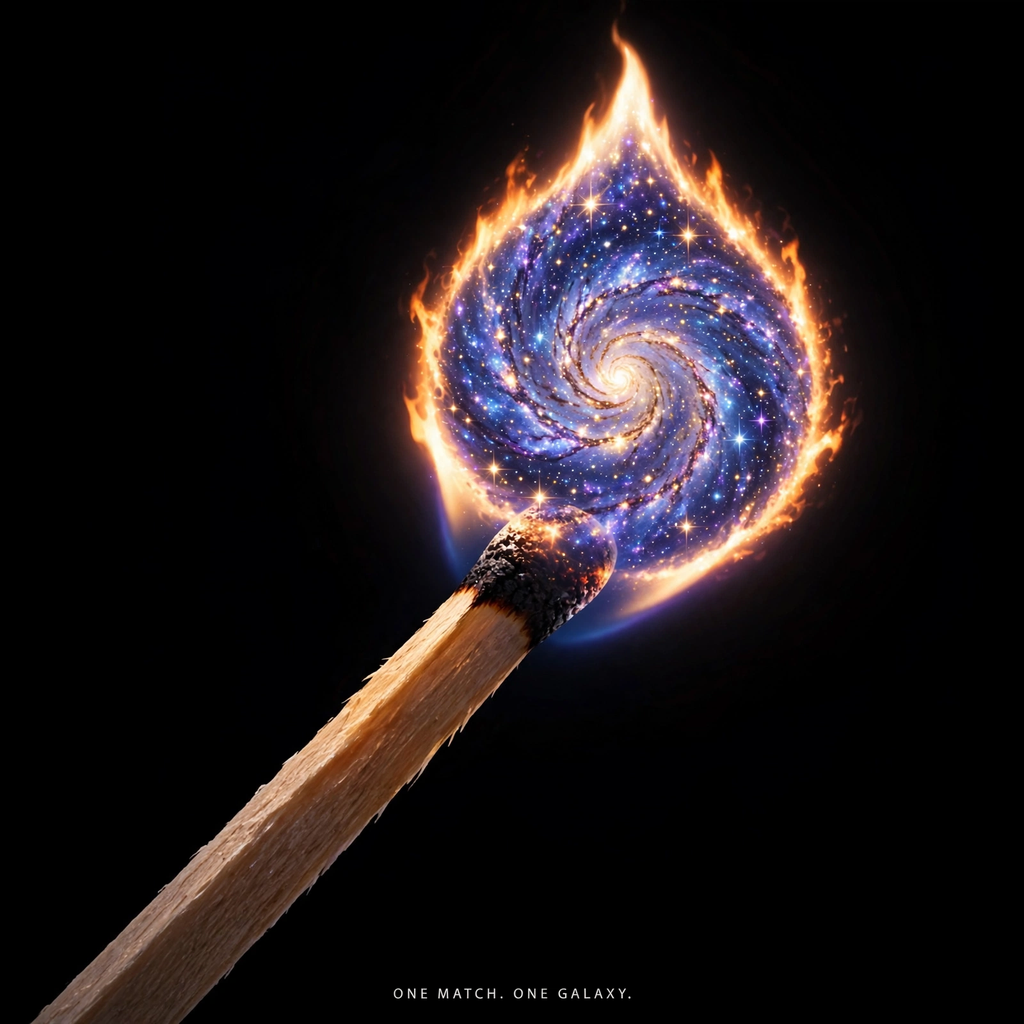
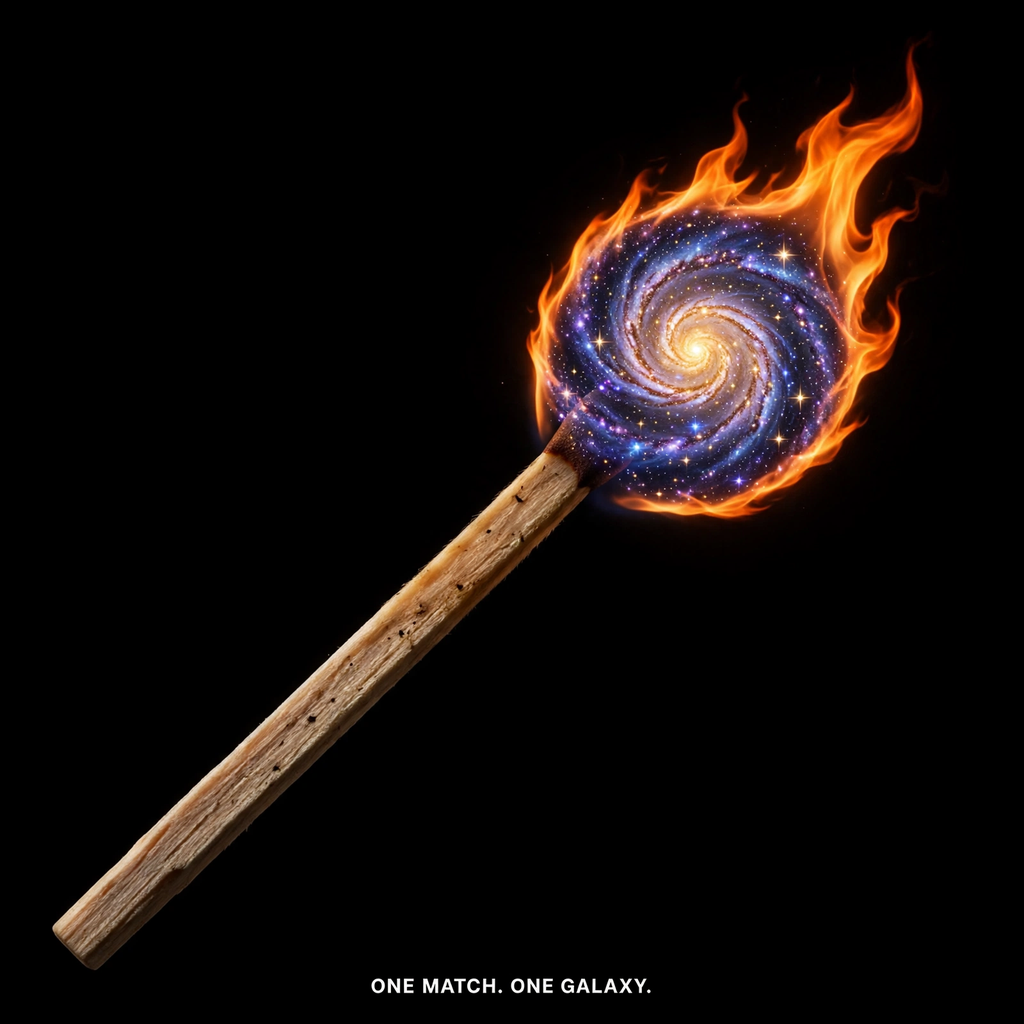
ai-excited-01: rebuild — one match, one galaxy (fresh build)

Changed region(s): [[0.0312, 0.0, 0.9062, 1.0], [0.3438, 0.9375, 0.625, 1.0]]

diff --git a/main.ts b/main.ts
@@ -1,30 +1,37 @@
-// ai-excited-01 — "One match. One galaxy."
-// Entrypoint: copies the committed entry.png to the output directory
-// the harness expects (MAKEFUN_OUTPUT_DIR, or /output as a fallback).
-// Node 22, standard library only, no network, fully deterministic:
-// the same bytes go in, the same bytes come out, every run.
+// ai-excited-01 — "One Match. One Galaxy."
+// Copies the committed entry image to the output directory requested by
+// the make.fun runner. Pure Node 22 standard library: no dependencies,
+// no network access, fully deterministic (byte-for-byte identical output
+// on every run, since it is a plain file copy).
 
-import { copyFileSync, mkdirSync, existsSync } from "node:fs";
-import { join, dirname } from "node:path";
+import { copyFileSync, existsSync, mkdirSync, statSync } from "node:fs";
+import { dirname, join } from "node:path";
 import { fileURLToPath } from "node:url";
 
-// Resolve the directory this file lives in, so the copy works no
-// matter which working directory the harness runs us from.
+// The image lives next to this script in the repository.
 const here = dirname(fileURLToPath(import.meta.url));
 const source = join(here, "entry.png");
 
-// The harness sets MAKEFUN_OUTPUT_DIR; /output is the documented
-// fallback when it is not set. An empty or whitespace-only value
-// counts as unset, so a stray blank env var cannot send the image
-// to a relative or empty path.
-const outDir = (process.env.MAKEFUN_OUTPUT_DIR || "").trim() || "/output";
-const target = join(outDir, "entry.png");
+// The runner tells us where to write via MAKEFUN_OUTPUT_DIR. An empty
+// or whitespace-only value counts as unset, and we fall back to the
+// conventional /output directory.
+const requestedDir = (process.env.MAKEFUN_OUTPUT_DIR ?? "").trim();
+const outputDir = requestedDir === "" ? "/output" : requestedDir;
 
 if (!existsSync(source)) {
-  console.error(`entry image missing: ${source}`);
+  console.error(`entry image not found: ${source}`);
   process.exit(1);
 }
 
-mkdirSync(outDir, { recursive: true });
-copyFileSync(source, target);
-console.log(`ai-excited-01: copied entry.png (${source}) -> ${target}`);
+mkdirSync(outputDir, { recursive: true });
+const destination = join(outputDir, "entry.png");
+copyFileSync(source, destination);
+
+// Verify the copy landed and report its size, so a silent partial
+// write can never pass as success.
+const written = statSync(destination);
+if (written.size === 0) {
+  console.error(`copy failed: ${destination} is empty`);
+  process.exit(1);
+}
+console.log(`wrote ${destination} (${written.size} bytes)`);

diff --git a/README.md b/README.md
@@ -1,23 +1,13 @@
-# One Match. One Galaxy.
+# One Match. One Galaxy. — ai-excited-01
 
 [![ai-excited-01](https://make.fun/badge/ai-excited-01.svg)](https://make.fun/c/ai-excited-01)
 [![rank](https://make.fun/badge/ai-excited-01/WV629/ai-excited-01/rank.svg)](https://make.fun/c/ai-excited-01)
 [![reward](https://make.fun/badge/ai-excited-01/WV629/ai-excited-01/reward.svg)](https://make.fun/c/ai-excited-01)
 
-Entry for the [ai-excited-01](https://make.fun/c/ai-excited-01) competition on
-[make.fun](https://make.fun): an image made to excite the AI judge.
+A single wooden matchstick runs diagonally across a pure black background.
+Its tip is lit — and inside the flame burns an entire spiral galaxy of blue,
+violet and gold stars, ringed by orange fire. One match. One galaxy.
 
-## The image
-
-A single wooden matchstick, struck diagonally across a pure black
-background — and inside its tiny flame burns a whole spiral galaxy,
-blue, violet and gold, ringed with fire. The smallest fire holds the
-largest thing: an impossible scale reversal, one bright focal point,
-captioned "One match. One galaxy."
-
-## How it runs
-
-`main.ts` (Node 22, standard library only, no network) copies the
-committed `entry.png` to `$MAKEFUN_OUTPUT_DIR/entry.png`
-(`/output/entry.png` if the variable is unset). The output is
-byte-identical on every run.
+The image is generated once and shipped as `entry.png`; `main.ts` (Node 22,
+standard library only, no network) copies it to
+`MAKEFUN_OUTPUT_DIR/entry.png`, falling back to `/output/entry.png`.
